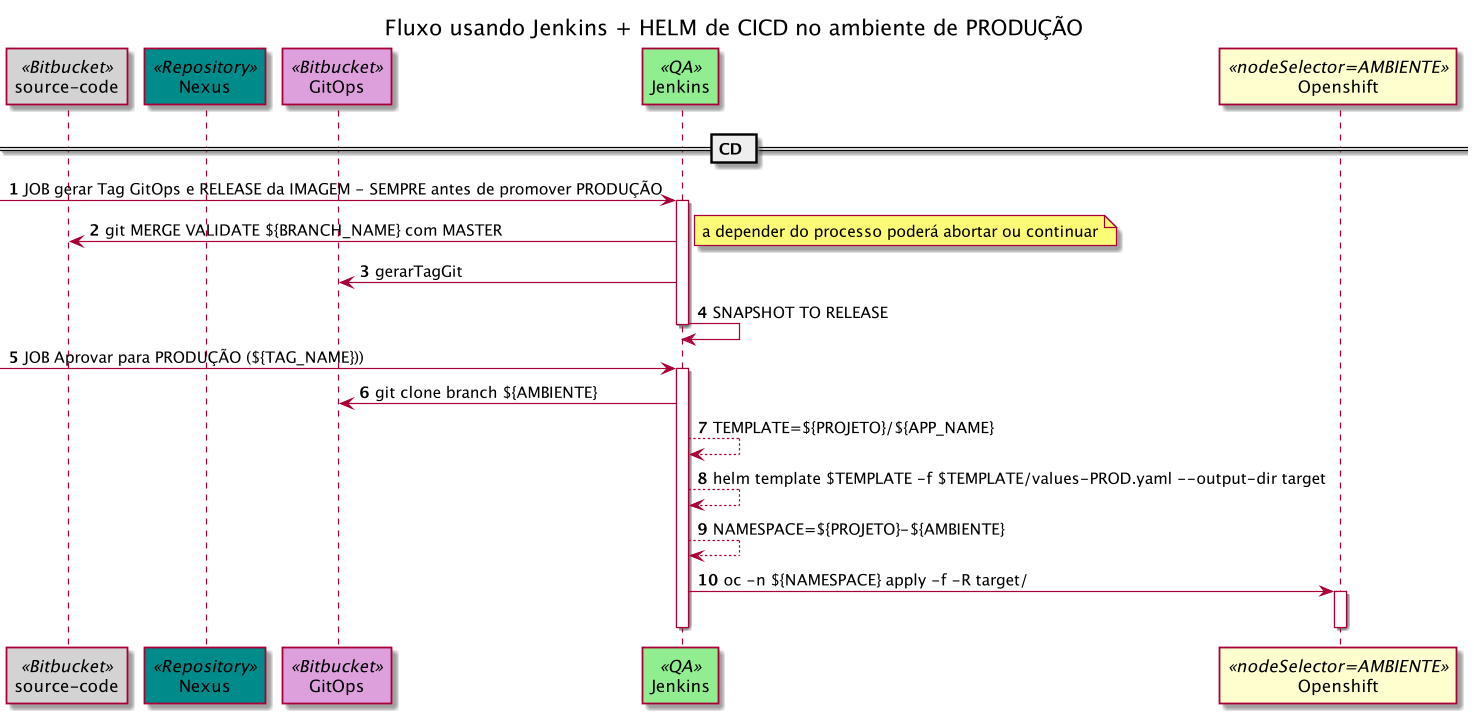
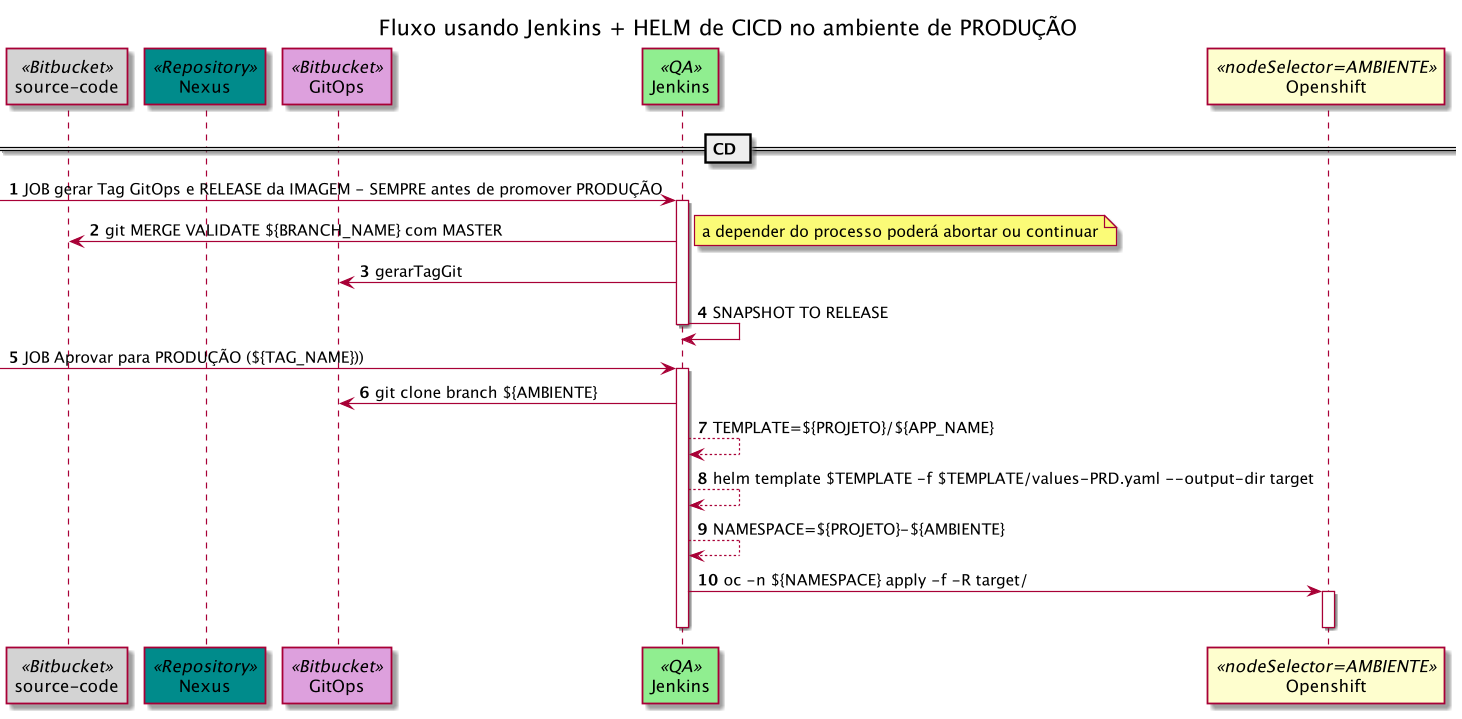
initial

diff --git a/README.md b/README.md
@@ -26,7 +26,7 @@ $ helm create xpto
 
 ## Exemplo do Fluxo de Demanda por Equipe
 
-> Visão do Fluxo para **<u>PROD</u>**
+> Visão do Fluxo para **<u>PRD</u>**
 
 ### Equipe A
 
@@ -34,7 +34,7 @@ $ helm create xpto
 
 ```shell
 ## baixar o repositório na branch do referido ambiente
-$ AMBIENTE=prod
+$ AMBIENTE=prd
 $ git clone -b $AMBIENTE git@github.com:jovemfelix/gitops-jenkins-helm.git
 $ cd gitops-jenkins-helm
 
@@ -56,17 +56,17 @@ $ helm template $TEMPLATE_DIR --namespace $PROJETO --output-dir $SAIDA --name-te
 
 > ```shell
 > ################################# CI :: Equipe A
-> ➜  gitops-jenkins-helm git:(qa) ✗ AMBIENTE=prod
-> ➜  gitops-jenkins-helm git:(qa) ✗ PROJETO=silada
-> ➜  gitops-jenkins-helm git:(qa) ✗ APP_NAME=fuse-app-01
-> ➜  gitops-jenkins-helm git:(qa) ✗ BRANCH_NAME=equipe_A-tag_01
-> ➜  gitops-jenkins-helm git:(qa) ✗ TEMPLATE_DIR=${PROJETO}/${APP_NAME}
-> ➜  gitops-jenkins-helm git:(qa) ✗ TEMPLATE_VALUES=${TEMPLATE_DIR}/values-${BRANCH_NAME}.yaml
-> ➜  gitops-jenkins-helm git:(qa) ✗ GIT_COMMIT_HASH=$(openssl rand -hex 4)
-> ➜  gitops-jenkins-helm git:(qa) ✗ VERSAO_IMAGEM=${BRANCH_NAME}-${GIT_COMMIT_HASH}
+> ➜  gitops-jenkins-helm git:(prd) ✗ AMBIENTE=prd
+> ➜  gitops-jenkins-helm git:(prd) ✗ PROJETO=silada
+> ➜  gitops-jenkins-helm git:(prd) ✗ APP_NAME=fuse-app-01
+> ➜  gitops-jenkins-helm git:(prd) ✗ BRANCH_NAME=equipe_A-tag_01
+> ➜  gitops-jenkins-helm git:(prd) ✗ TEMPLATE_DIR=${PROJETO}/${APP_NAME}
+> ➜  gitops-jenkins-helm git:(prd) ✗ TEMPLATE_VALUES=${TEMPLATE_DIR}/values-${BRANCH_NAME}.yaml
+> ➜  gitops-jenkins-helm git:(prd) ✗ GIT_COMMIT_HASH=$(openssl rand -hex 4)
+> ➜  gitops-jenkins-helm git:(prd) ✗ VERSAO_IMAGEM=${BRANCH_NAME}-${GIT_COMMIT_HASH}
 > ################################# Atualizar a versão da image e prefixo a ser usado
-> ➜  gitops-jenkins-helm git:(qa) ✗ yq eval "(.app.image.tag)|=\"$VERSAO_IMAGEM\" | (.app.namePrefix)|=\"$BRANCH_NAME\"" -n > $TEMPLATE_VALUES
-> ➜  gitops-jenkins-helm git:(qa) ✗ bat $TEMPLATE_VALUES
+> ➜  gitops-jenkins-helm git:(prd) ✗ yq eval "(.app.image.tag)|=\"$VERSAO_IMAGEM\" | (.app.namePrefix)|=\"$BRANCH_NAME\"" -n > $TEMPLATE_VALUES
+> ➜  gitops-jenkins-helm git:(prd) ✗ bat $TEMPLATE_VALUES
 > ───────┬──────────────────────────────────────────────────────────────
 >        │ File: silada/fuse-app-01/values-equipe_A-tag_01.yaml
 > ───────┼──────────────────────────────────────────────────────────────
@@ -77,9 +77,9 @@ $ helm template $TEMPLATE_DIR --namespace $PROJETO --output-dir $SAIDA --name-te
 > ───────┴──────────────────────────────────────────────────────────────
 > 
 > ################################# CD :: Equipe A
-> ➜  gitops-jenkins-helm git:(qa) ✗ SAIDA=target/${PROJETO}/${BRANCH_NAME}
+> ➜  gitops-jenkins-helm git:(prd) ✗ SAIDA=target/${PROJETO}/${BRANCH_NAME}
 > 
-> ➜  gitops-jenkins-helm git:(qa) ✗ helm template $TEMPLATE_DIR --namespace $PROJETO --output-dir $SAIDA --name-template ${BRANCH_NAME}-${APP_NAME} -f ${TEMPLATE_VALUES}
+> ➜  gitops-jenkins-helm git:(prd) ✗ helm template $TEMPLATE_DIR --namespace $PROJETO --output-dir $SAIDA --name-template ${BRANCH_NAME}-${APP_NAME} -f ${TEMPLATE_VALUES}
 > wrote target/silada/equipe_A-tag_01/fuse-app-01/templates/serviceaccount.yaml
 > wrote target/silada/equipe_A-tag_01/fuse-app-01/templates/service.yaml
 > wrote target/silada/equipe_A-tag_01/fuse-app-01/templates/deployment.yaml
@@ -92,7 +92,7 @@ $ helm template $TEMPLATE_DIR --namespace $PROJETO --output-dir $SAIDA --name-te
 
 ```shell
 ## baixar o repositório na branch do referido ambiente
-$ AMBIENTE=prod
+$ AMBIENTE=prd
 $ git clone -b $AMBIENTE git@github.com:jovemfelix/gitops-jenkins-helm.git
 $ cd gitops-jenkins-helm
 
@@ -112,17 +112,17 @@ $ helm template $TEMPLATE_DIR --namespace $PROJETO --output-dir $SAIDA --name-te
 
 > ```shell
 > ################################# CI :: Equipe B
-> ➜  gitops-jenkins-helm git:(qa) ✗ AMBIENTE=prod
-> ➜  gitops-jenkins-helm git:(qa) ✗ PROJETO=silada
-> ➜  gitops-jenkins-helm git:(qa) ✗ APP_NAME=fuse-app-01
-> ➜  gitops-jenkins-helm git:(qa) ✗ BRANCH_NAME=equipe_B-tag_01
-> ➜  gitops-jenkins-helm git:(qa) ✗ TEMPLATE_DIR=${PROJETO}/${APP_NAME}
-> ➜  gitops-jenkins-helm git:(qa) ✗ TEMPLATE_VALUES=${TEMPLATE_DIR}/values-${BRANCH_NAME}.yaml
-> ➜  gitops-jenkins-helm git:(qa) ✗ GIT_COMMIT_HASH=$(openssl rand -hex 4)
-> ➜  gitops-jenkins-helm git:(qa) ✗ VERSAO_IMAGEM=${BRANCH_NAME}-${GIT_COMMIT_HASH}
+> ➜  gitops-jenkins-helm git:(prd) ✗ AMBIENTE=prd
+> ➜  gitops-jenkins-helm git:(prd) ✗ PROJETO=silada
+> ➜  gitops-jenkins-helm git:(prd) ✗ APP_NAME=fuse-app-01
+> ➜  gitops-jenkins-helm git:(prd) ✗ BRANCH_NAME=equipe_B-tag_01
+> ➜  gitops-jenkins-helm git:(prd) ✗ TEMPLATE_DIR=${PROJETO}/${APP_NAME}
+> ➜  gitops-jenkins-helm git:(prd) ✗ TEMPLATE_VALUES=${TEMPLATE_DIR}/values-${BRANCH_NAME}.yaml
+> ➜  gitops-jenkins-helm git:(prd) ✗ GIT_COMMIT_HASH=$(openssl rand -hex 4)
+> ➜  gitops-jenkins-helm git:(prd) ✗ VERSAO_IMAGEM=${BRANCH_NAME}-${GIT_COMMIT_HASH}
 > ################################# Atualizar a versão da image e prefixo a ser usado
-> ➜  gitops-jenkins-helm git:(qa) ✗ yq eval "(.app.image.tag)|=\"$VERSAO_IMAGEM\" | (.app.namePrefix)|=\"$BRANCH_NAME\"" -n > $TEMPLATE_VALUES
-> ➜  gitops-jenkins-helm git:(qa) ✗ bat $TEMPLATE_VALUES
+> ➜  gitops-jenkins-helm git:(prd) ✗ yq eval "(.app.image.tag)|=\"$VERSAO_IMAGEM\" | (.app.namePrefix)|=\"$BRANCH_NAME\"" -n > $TEMPLATE_VALUES
+> ➜  gitops-jenkins-helm git:(prd) ✗ bat $TEMPLATE_VALUES
 > ───────┬──────────────────────────────────────────────────────────────
 >        │ File: silada/fuse-app-01/values-equipe_B-tag_01.yaml
 > ───────┼──────────────────────────────────────────────────────────────
@@ -134,9 +134,9 @@ $ helm template $TEMPLATE_DIR --namespace $PROJETO --output-dir $SAIDA --name-te
 > 
 > ################################# CD :: Equipe B
 > 
-> ➜  gitops-jenkins-helm git:(qa) ✗ SAIDA=target/${PROJETO}/${BRANCH_NAME}
+> ➜  gitops-jenkins-helm git:(prd) ✗ SAIDA=target/${PROJETO}/${BRANCH_NAME}
 > 
-> ➜  gitops-jenkins-helm git:(qa) ✗ helm template $TEMPLATE_DIR --namespace $PROJETO --output-dir $SAIDA --name-template ${BRANCH_NAME}-${APP_NAME} -f ${TEMPLATE_VALUES}
+> ➜  gitops-jenkins-helm git:(prd) ✗ helm template $TEMPLATE_DIR --namespace $PROJETO --output-dir $SAIDA --name-template ${BRANCH_NAME}-${APP_NAME} -f ${TEMPLATE_VALUES}
 > wrote target/silada/equipe_B-tag_01/fuse-app-01/templates/serviceaccount.yaml
 > wrote target/silada/equipe_B-tag_01/fuse-app-01/templates/service.yaml
 > wrote target/silada/equipe_B-tag_01/fuse-app-01/templates/deployment.yaml
